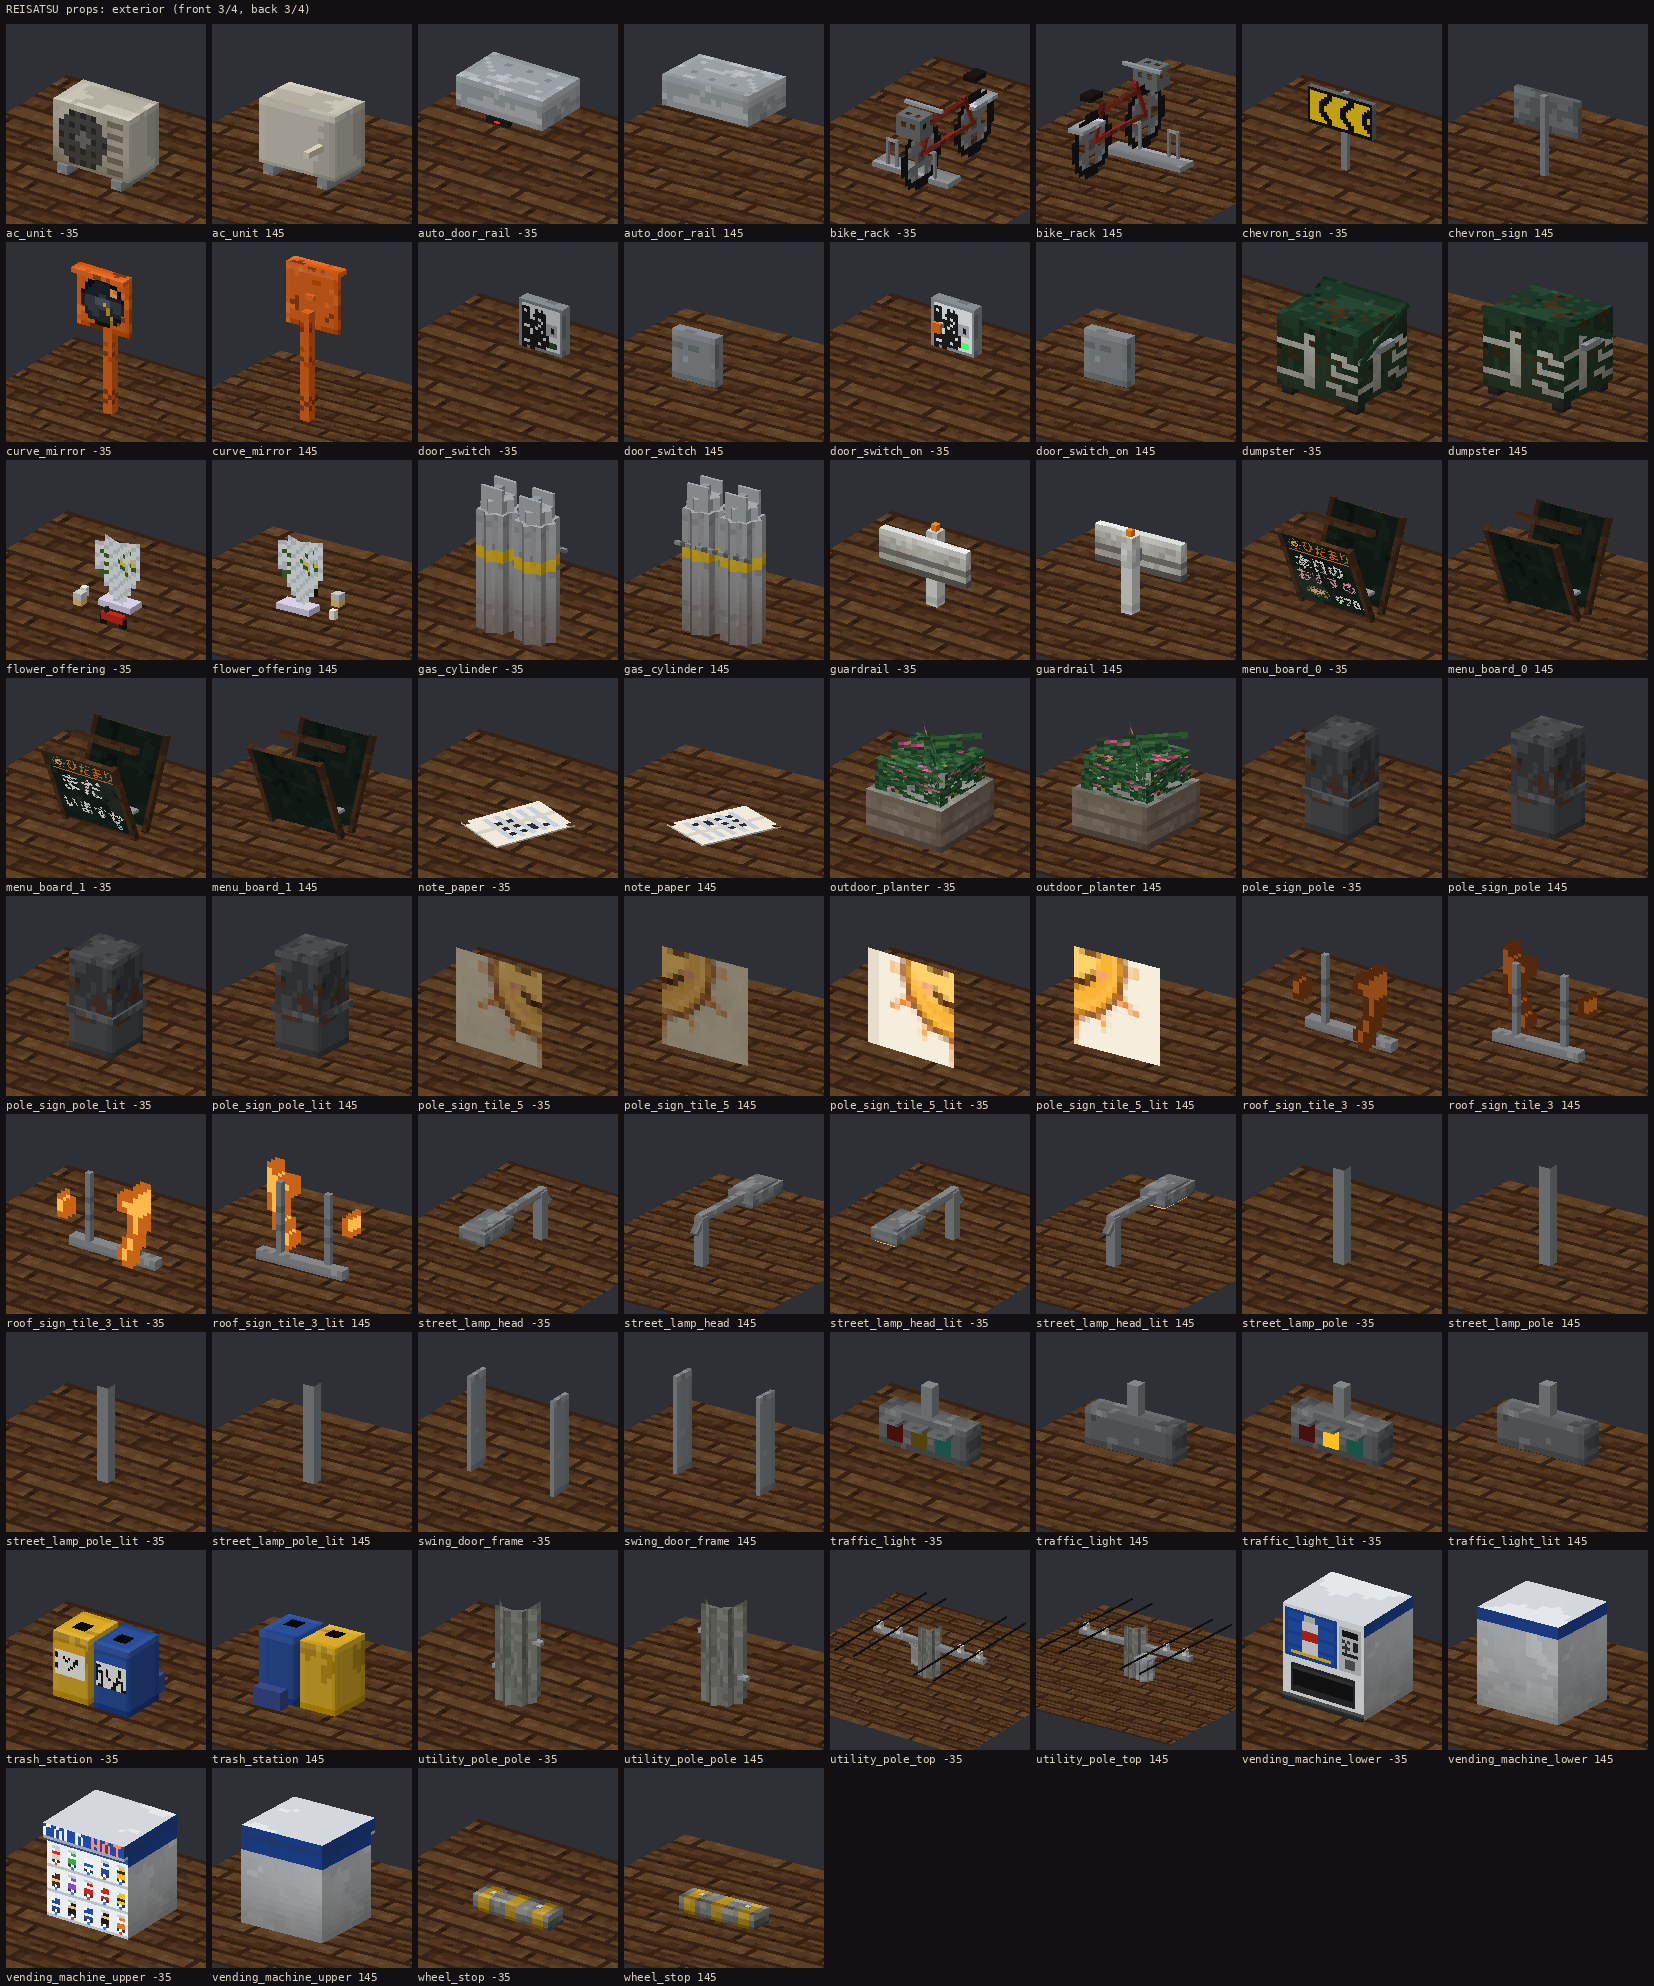
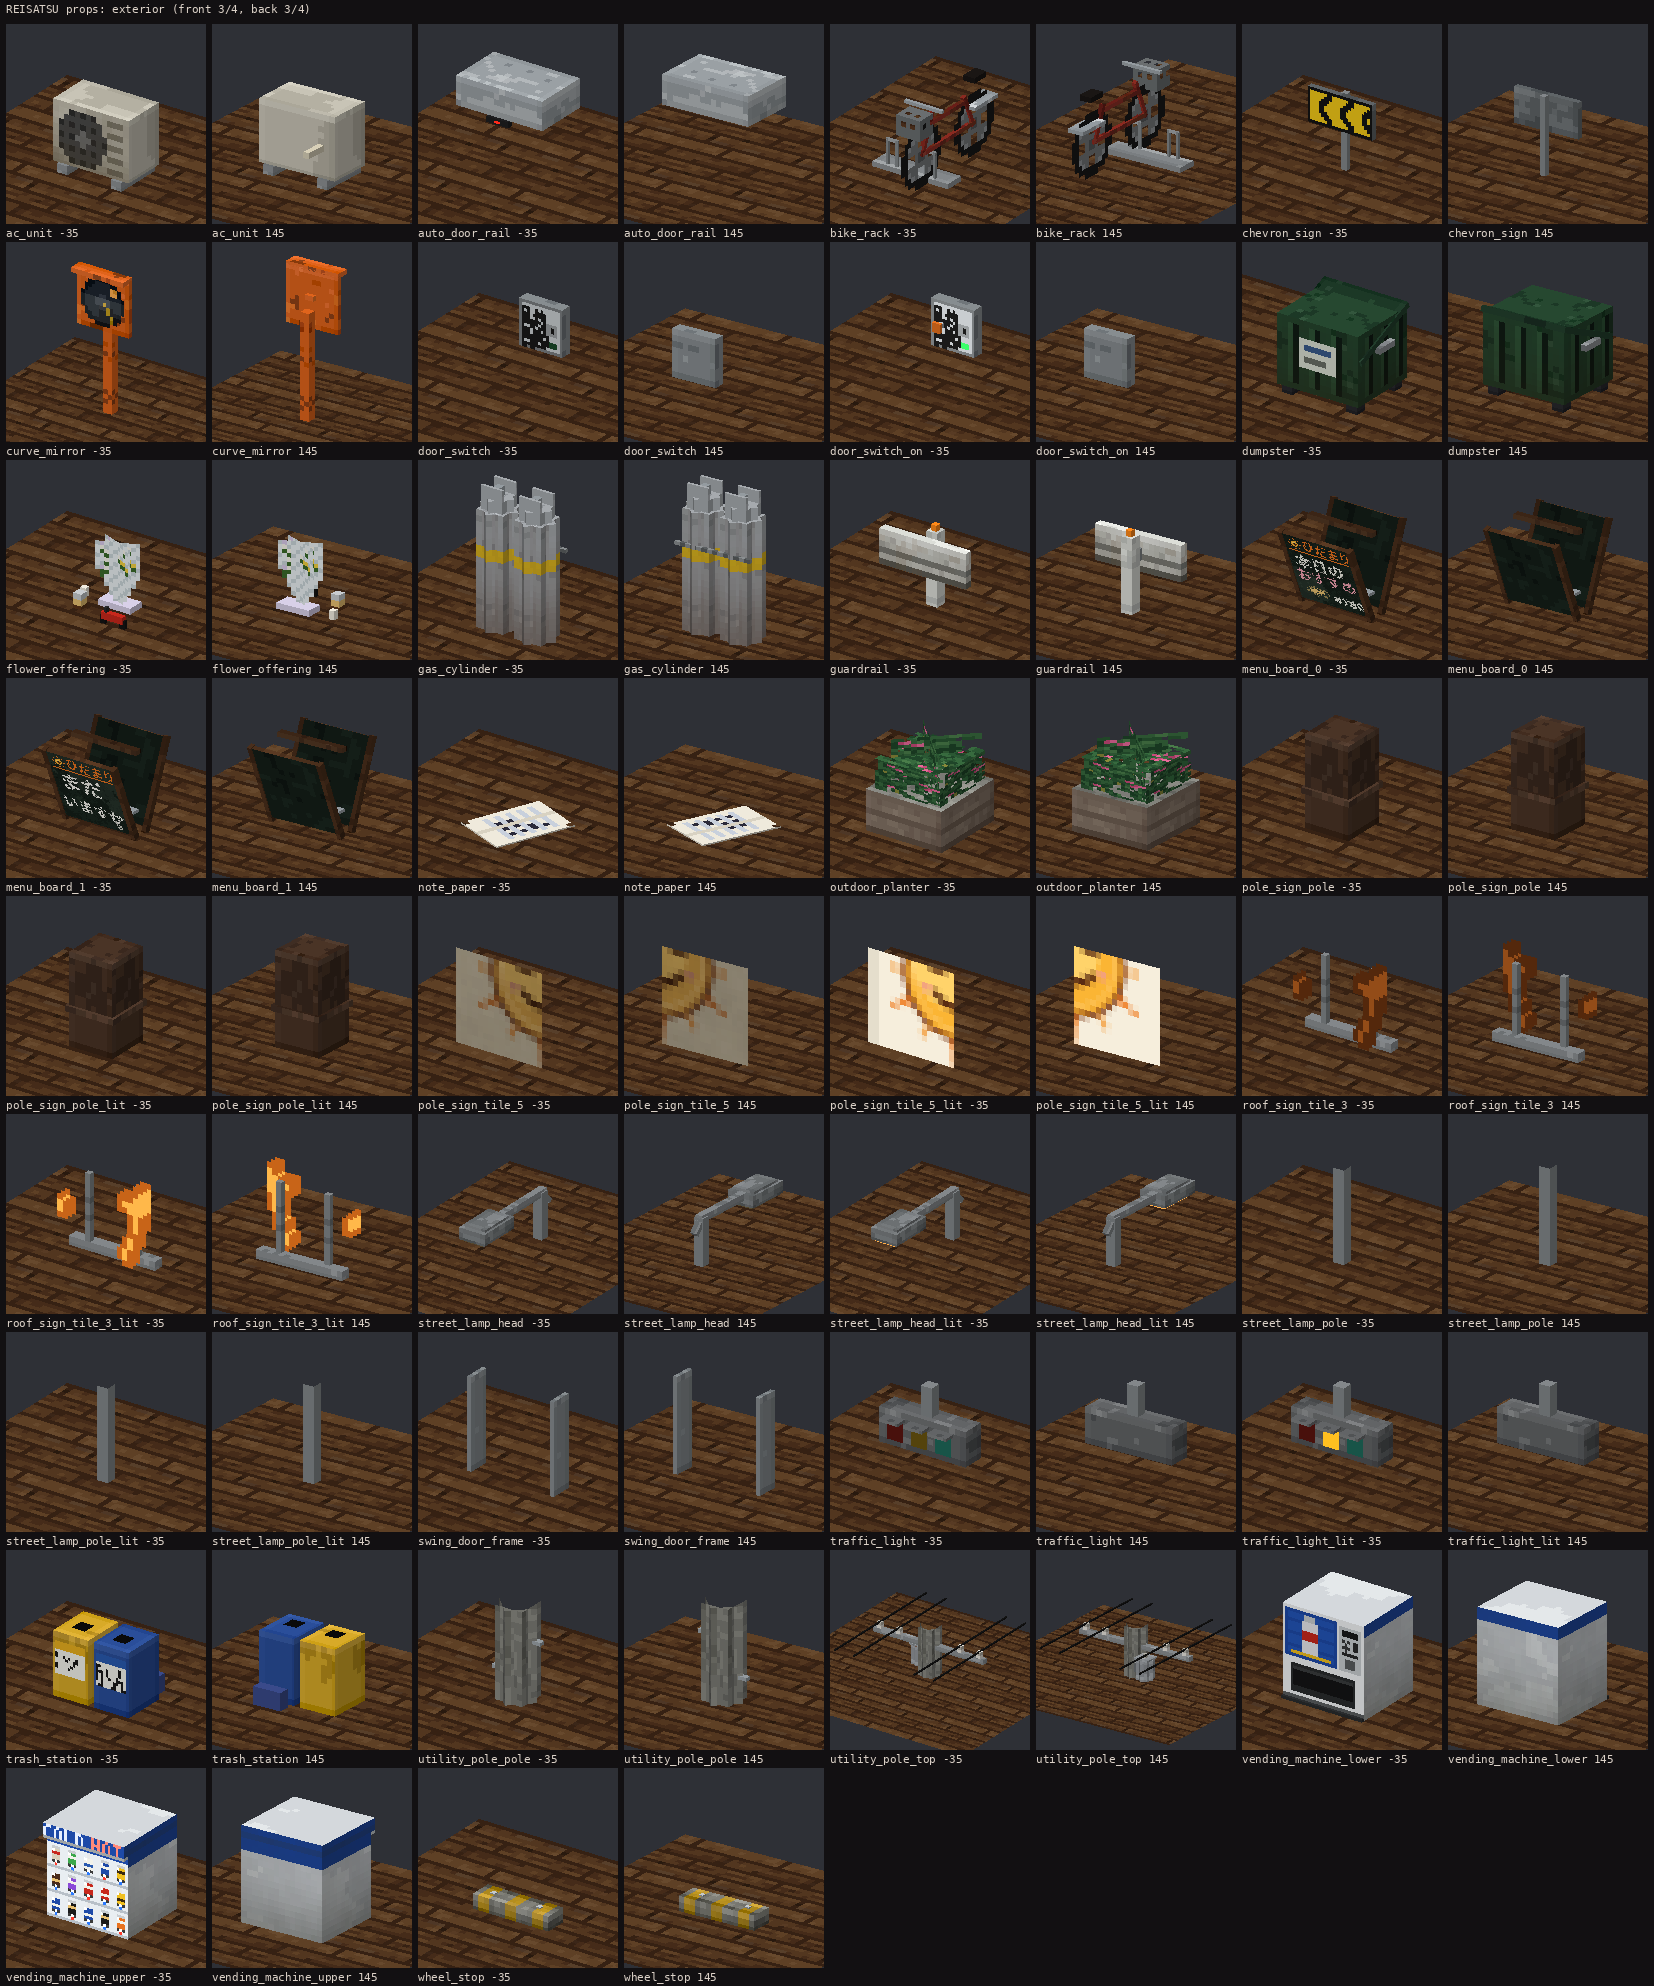
Art: dumpster ribs + sticker, brown sign pole, previews refreshed
Claude-Session: https://claude.ai/code/session_017h8AWA8SMb3MbjFEftA5Gv

diff --git a/tools/art/rs_exterior.py b/tools/art/rs_exterior.py
@@ -195,8 +195,8 @@ for _t in range(8):
 A_POLE = Atlas('pole_sign')
 FRAME_BROWN = M.paint('sign_frame', ramp(['#140a06', '#22120a', '#301a0e', '#3e2414', '#4c2e1a'], 5), base=2.4,
                       scuffs=0.04, rust=0.02)
-POLE_PAINT = M.paint('sign_pole', ramp(['#1a1c1e', '#2a2c2e', '#3a3c3e', '#4a4c4e', '#5a5c5e'], 5), base=2.6,
-                     scuffs=0.05, rust=0.03)
+POLE_PAINT = M.paint('sign_pole', ramp(['#1e1410', '#2c1e16', '#3a281e', '#4a3426', '#5a4030'], 5), base=2.6,
+                     scuffs=0.03, rust=0.0)
 
 
 def pole_sign_tile(t, lit_):
@@ -502,18 +502,24 @@ A_DUMP = Atlas('dumpster')
 
 
 def _dump_side(w, h, face):
-    a = m_paint(w, h, ramp(['#0c1a12', '#14281c', '#1c3826', '#264830', '#30583a'], 5), 12601 + w, base=2.6, scuffs=0.08,
-                rust=0.04)
-    if face != 'h' and w >= 12 and h >= 8:
-        g = text_mask('ゴミ', 9, FONT_SANS_JP_BOLD, binary=True)
-        stamp_center(a, g, w / 2, h / 2, '#d8dcd0')
-        grime(a, 12602, strength=0.25, color='#2a2010', bottom=0.4)
+    a = m_paint(w, h, ramp(['#0c1a12', '#14281c', '#1c3826', '#264830', '#30583a'], 5), 12601 + w, base=2.8, amp=0.2,
+                scuffs=0.04)
+    if face not in ('h', 'up', 'down'):
+        for x in range(2, w - 1, 4):                       # pressed ribs
+            vline(a, x, 1, h - 2, '#30583a')
+            vline(a, x + 1, 1, h - 2, '#0e1c14')
+        grime(a, 12602, strength=0.12, color='#2a2010', bottom=0.35)
+        if face == 'north' and w >= 12 and h >= 8:
+            # a weathered collection sticker
+            rect(a, w // 2 - 3, 3, w // 2 + 3, 7, '#d8dcd0')
+            hline(a, w // 2 - 2, w // 2 + 2, 4, '#3a5a8a')
+            hline(a, w // 2 - 2, w // 2 + 1, 6, '#6a6e66')
     return a
 
 
 def dumpster():
     m = Model('dumpster', A_DUMP)
-    S = M.custom('dump', _dump_side)
+    S = M.custom('dump', _dump_side, per_face=True)
     m.box([0.5, 1.5, 1.5], [15.5, 13.5, 14.5], S)
     m.box([0.2, 13.5, 1.2], [15.8, 14.5, 14.8], M.paint('dump_lid', ramp(['#0c1a12', '#14281c', '#1c3826', '#264830'], 4),
                                                         base=2.0, scuffs=0.06), rot=('x', -22.5, [8, 13.5, 14.8]))

diff --git a/tools/art/rs_mats.py b/tools/art/rs_mats.py
@@ -125,7 +125,7 @@ def granite(key):
 
 
 def custom(key, fn, per_face=False):
-    """fn(w, h, face) -> array (full control)."""
+    """fn(w, h, face) -> array (full control). per_face: face is the face name (north, ...) instead of 'v' / 'h'."""
     return Mat(key, lambda w, h, face, **_: fn(w, h, face), per_face=per_face)
 
 
